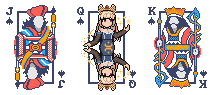
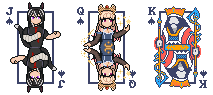
Update for Sombra

Changed region(s): [[0.0282, 0.0211, 0.3099, 0.9684]]

diff --git a/README.md b/README.md
@@ -2,6 +2,7 @@
 Adding spanish speaking Vtuber character face cards to the game.
 
 - [Chrome Cottontail](https://www.twitch.tv/chromevt) as ♠Spades Queen
+- [Sombra 7474](https://www.twitch.tv/sombra7474) as ♠Spades Jack
 - [Edomancer](https://www.twitch.tv/edomancer) as ♥Hearts Queen
 - [YopAlonso](https://www.twitch.tv/yopalonso) as ♥Hearts Jack
 - [SebasContre](https://www.twitch.tv/sebascontre) as ♣Clubs King
